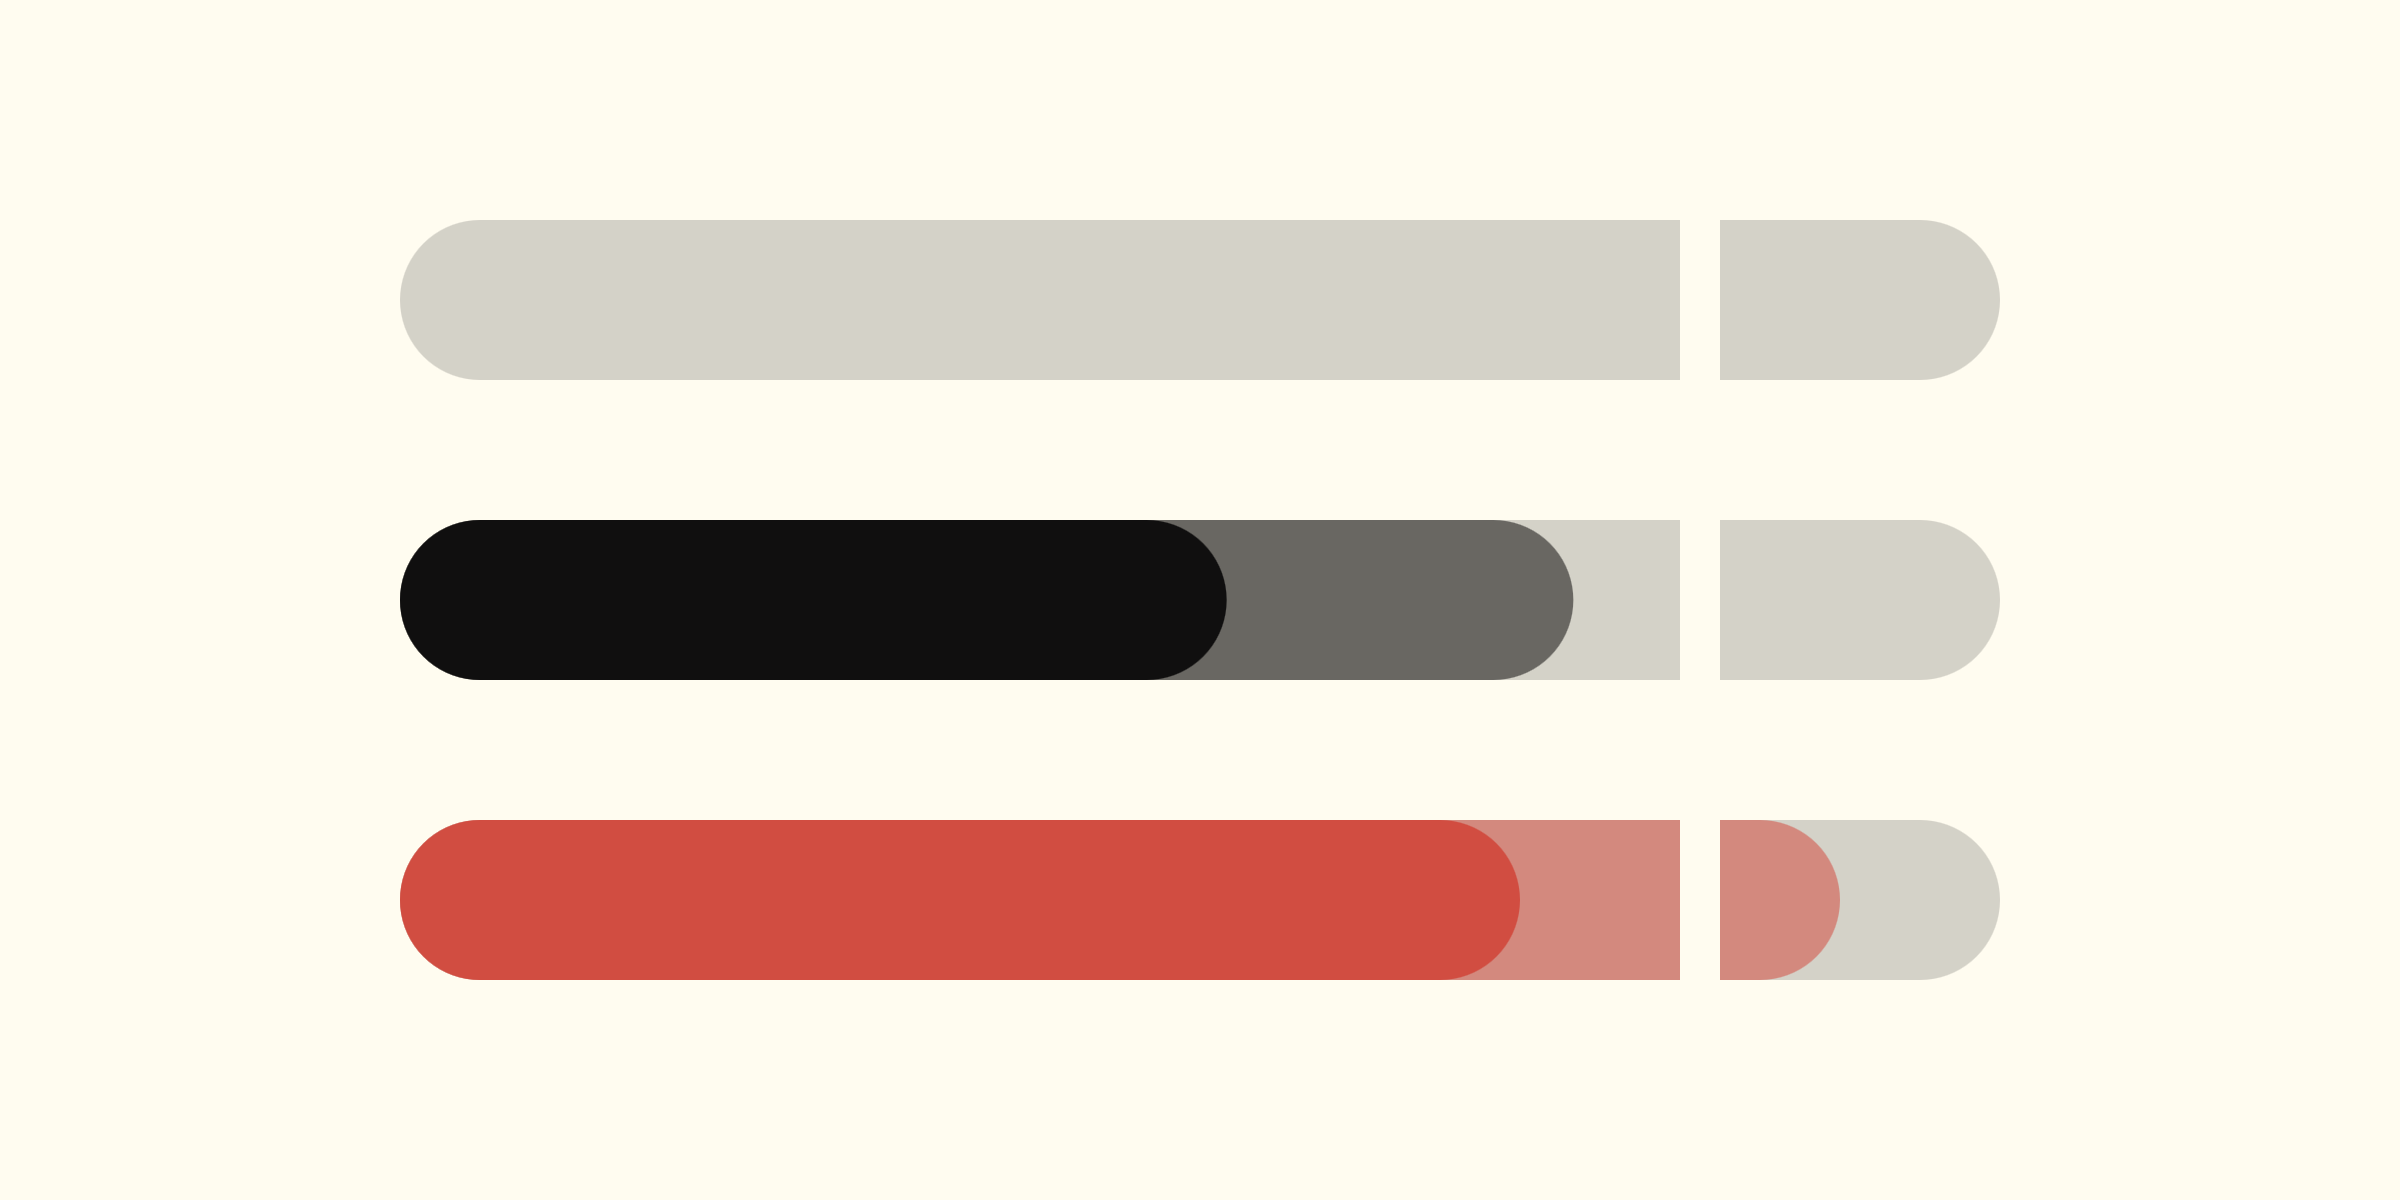
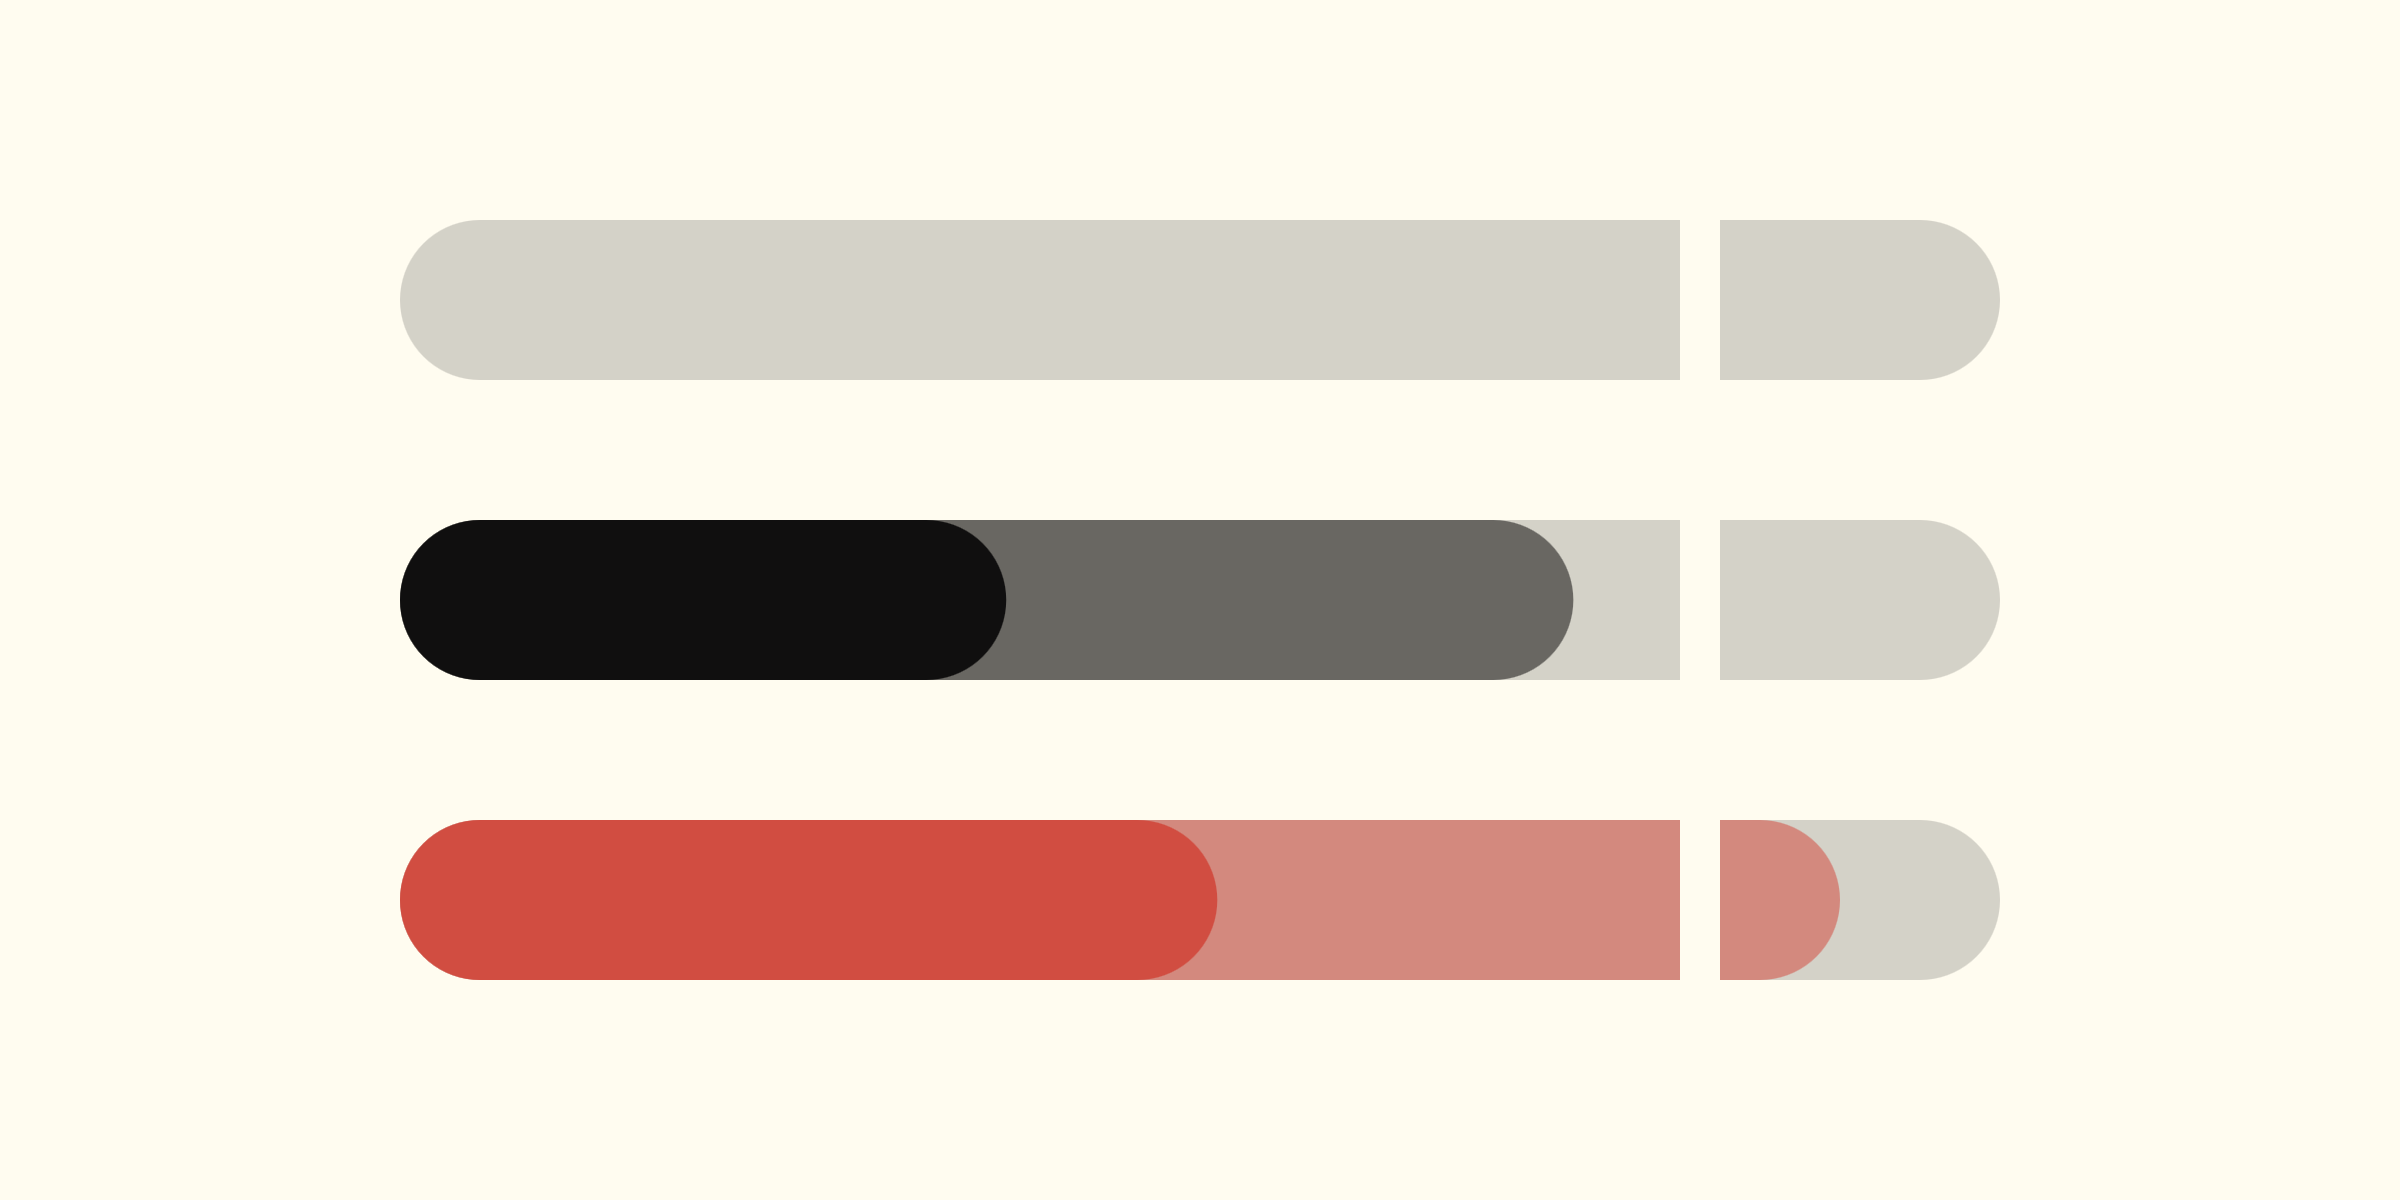
fix: run the meter to presence, not the credited total (#9)
* fix: guard every minute the meter draws, not just presence

apply() type-checked present_minutes alone, so a day payload missing
paid_minutes, total_minutes or cap_minutes reached fraction() and
formatHours() as undefined. The meter drew NaN-width rectangles and the
tooltip read "NaN:aN" while failure stayed empty: a confident wrong
reading rather than a stated failure.

One loop over the four required keys replaces the single guard.
present_minutes is checked first, so a tagwerk too old to report it
still produces the message the README documents.

* fix: run the meter to presence, not the credited total

tagwerk made the day cap a presence threshold again, so over_cap is now
a verdict on present_minutes while the fill still ran to total_minutes.
Length and colour answered different questions: a two-kind day drew a
long track that never reddened.

The translucent fill is presence. The paid stretch is that work's share
of the same presence, scaled the way the CLI bars scale their buckets,
so the solid can never outrun the fill around it.

Regenerate preview.png: the track lengths are unchanged at 440 and 540
minutes, the paid stretch moves in behind them.

Changed region(s): [[0.4688, 0.6783, 0.6562, 0.8325], [0.4062, 0.4317, 0.5312, 0.5858]]

diff --git a/BarWidget.qml b/BarWidget.qml
@@ -9,9 +9,10 @@ import qs.Ui
 // attribution and the cap verdict all stay in Python: `over_cap` arrives
 // already computed (ADR-0011), so no threshold is re-implemented here.
 //
-// The meter and the cap measure `total_minutes`, which credits each leased
-// kind a whole minute (ADR-0018) and so runs above presence on a day spent
-// in two kinds at once. Presence is its own reading, never derived here.
+// The meter and the cap measure `present_minutes`: the day cap is a presence
+// threshold (ADR-0011, ADR-0019), so the track is time at the machine and a
+// minute worked in two kinds lengthens it once. `total_minutes` credits each
+// leased kind a whole minute (ADR-0018) and only sets the paid proportion.
 BarWidget {
   id: root
   moduleName: "espadat.tagwerk"
@@ -34,6 +35,10 @@ BarWidget {
   property string failure: ""
 
   readonly property real trackMinutes: capMinutes * trackFactor
+
+  // The paid stretch is drawn as its share of presence, the same way the CLI
+  // bars scale their buckets, so the solid can never outrun the fill around it.
+  readonly property real paidShare: totalMinutes > 0 ? paidMinutes * presentMinutes / totalMinutes : 0
 
   // Colour's only job. `over_cap` is Python's verdict, so there is no second
   // threshold here and no "approaching" hue: proximity is the fill's length.
@@ -59,9 +64,12 @@ BarWidget {
       root.failure = "day --json did not parse"
       return
     }
-    if (typeof day.present_minutes !== "number") {
-      root.failure = "day --json has no present_minutes; update tagwerk"
-      return
+    var required = ["present_minutes", "paid_minutes", "total_minutes", "cap_minutes"]
+    for (var i = 0; i < required.length; i++) {
+      if (typeof day[required[i]] !== "number") {
+        root.failure = "day --json has no " + required[i] + "; update tagwerk"
+        return
+      }
     }
     root.paidMinutes = day.paid_minutes
     root.totalMinutes = day.total_minutes
@@ -145,7 +153,7 @@ BarWidget {
         anchors.verticalCenter: track.verticalCenter
         height: track.height
         radius: track.radius
-        width: track.width * root.fraction(root.totalMinutes)
+        width: track.width * root.fraction(root.presentMinutes)
         color: Util.alpha(root.fillColor, 0.55)
 
         Behavior on width {
@@ -154,13 +162,13 @@ BarWidget {
       }
 
       // What is left of the translucent fill past this one's right edge
-      // is the personal share.
+      // is the unpaid share of the same presence.
       Rectangle {
         anchors.left: track.left
         anchors.verticalCenter: track.verticalCenter
         height: track.height
         radius: track.radius
-        width: track.width * root.fraction(root.paidMinutes)
+        width: track.width * root.fraction(root.paidShare)
         color: root.fillColor
 
         Behavior on width {

diff --git a/preview/shell.qml b/preview/shell.qml
@@ -17,10 +17,12 @@ ShellRoot {
     // radii and the Style.space(1) cap notch both rasterise where they land.
     readonly property int s: parseInt(Quickshell.env("PREVIEW_SCALE") || "20")
 
+    // present drives the track; total only sets the paid proportion inside it,
+    // so a two-kind day is a total above its own presence.
     readonly property var states: [
-      { total: 0, paid: 0, over: false },
-      { total: 440, paid: 310, over: false },
-      { total: 540, paid: 420, over: true }
+      { total: 0, paid: 0, present: 0, over: false },
+      { total: 600, paid: 310, present: 440, over: false },
+      { total: 740, paid: 420, present: 540, over: true }
     ]
 
     Rectangle {
@@ -43,6 +45,7 @@ ShellRoot {
           capMinutes: 480
           totalMinutes: modelData.total
           paidMinutes: modelData.paid
+          presentMinutes: modelData.present
           overCap: modelData.over
         }
       }

diff --git a/README.md b/README.md
@@ -1,12 +1,12 @@
 # omarchy-tagwerk
 
-> Today's credited hours against the [tagwerk](https://github.com/espadat-studio/tagwerk) day cap, as a meter in the Omarchy bar
+> Today's hours at the machine against the [tagwerk](https://github.com/espadat-studio/tagwerk) day cap, as a meter in the Omarchy bar
 
-A cap-proximity cue, answering one question: am I close to the day cap, or not? A track, a fill running to today's credited minutes with the paid stretch solid inside it, and the cap as a notch you watch the fill close on. One glance, no arithmetic, nothing to read.
+A cap-proximity cue, answering one question: am I close to the day cap, or not? A track, a fill running to today's presence with the paid stretch solid inside it, and the cap as a notch you watch the fill close on. One glance, no arithmetic, nothing to read.
 
-![three states of the meter: an empty track with the cap notched near its right end, a part-filled track with the paid share solid inside the credited fill, and a red track running past the notch](preview.png)
+![three states of the meter: an empty track with the cap notched near its right end, a part-filled track with the paid share solid inside the presence fill, and a red track running past the notch](preview.png)
 
-Hover prints work, personal, presence, and the time left or over. Work and personal can sum past presence: an agent running in a work repo beside one in a personal repo credits a whole minute to each, so a minute spent in two kinds counts once in each ([ADR-0018](https://github.com/espadat-studio/tagwerk/blob/master/meta/adr/0018-a-minute-is-whole-to-each-kind.md)). The meter and the cap follow the credited total, not presence. Click opens `tagwerk week` in the themed floating terminal.
+Hover prints work, personal, presence, and the time left or over. Work and personal can sum past presence: an agent running in a work repo beside one in a personal repo credits a whole minute to each, so a minute spent in two kinds counts once in each ([ADR-0018](https://github.com/espadat-studio/tagwerk/blob/master/meta/adr/0018-a-minute-is-whole-to-each-kind.md)). The meter and the cap follow presence, so a minute worked in two kinds lengthens the track once ([ADR-0019](https://github.com/espadat-studio/tagwerk/blob/master/meta/adr/0019-the-bars-measure-presence.md)); the paid stretch inside it is that work's share of the same presence. Click opens `tagwerk week` in the themed floating terminal.
 
 ## Requires
 
